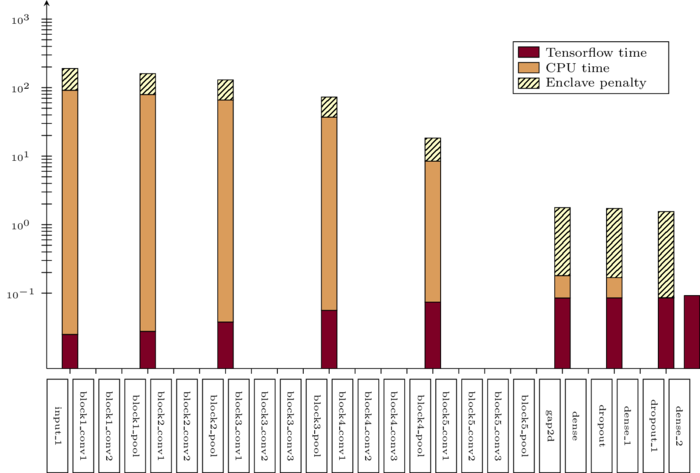
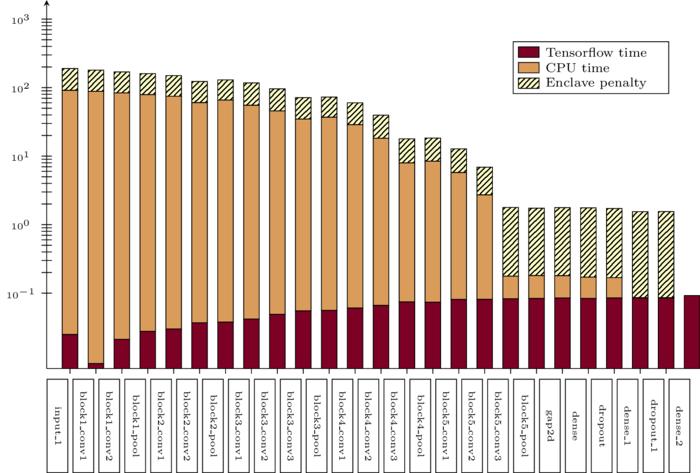
Added all splits to graph

diff --git a/enclave_model.py b/enclave_model.py
@@ -98,7 +98,7 @@ class Enclave(Sequential):
                     "const float *%s = (const float*) &_binary_%s_bin_start;\n" % (bias_name, bias_name))
                 
             elif type(l) in [layers.Dropout, layers.GlobalAveragePooling1D, layers.GlobalAveragePooling2D,
-                             layers.MaxPooling1D,layers.MaxPooling2D]:
+                             layers.MaxPooling1D,layers.MaxPooling2D, layers.Flatten]:
                 # these layers are either not used during inference or have no parameters
                 continue
             else:
@@ -262,7 +262,7 @@ class Enclave(Sequential):
             new_size = np.prod(layer.output_shape[1:])
             s = max_pooling_2d_template % (inputs, h, w, c, pool_size, tmp_buffer_template % tmp_index)
 
-        elif type(layer) in [layers.Dropout]:
+        elif type(layer) in [layers.Dropout, layers.Flatten]:
             # these layers are inactive during inference, so they can be skipped
             s = "//Layer {} skipped\n".format(layer.name)
             return s, False

diff --git a/tex/graphic_gpu.tex b/tex/graphic_gpu.tex
@@ -19,14 +19,31 @@
   
   \mitnetsummary{-0.2}
 
-  \mitgpusplita
-  \mitgpusplitd
-  \mitgpusplitf
-  \mitgpusplitba
-  \mitgpusplitbe
-  \mitgpusplitbi
-  \mitgpusplitcb
-  \mitgpusplitce
+  \mitcpusplita
+  \mitcpusplitb
+  \mitcpusplitc
+  \mitcpusplitd
+  \mitcpusplite
+  \mitcpusplitf
+  \mitcpusplitg
+  \mitcpusplith
+  \mitcpuspliti
+  \mitcpusplitj
+  \mitcpusplitba
+  \mitcpusplitbb
+  \mitcpusplitbc
+  \mitcpusplitbd
+  \mitcpusplitbe
+  \mitcpusplitbf
+  \mitcpusplitbg
+  \mitcpusplitbh
+  \mitcpusplitbi
+  \mitcpusplitbj
+  \mitcpusplitca
+  \mitcpusplitcb
+  \mitcpusplitcc
+  \mitcpusplitcd
+  \mitcpusplitce
 
   \legend{9cm}{6.3cm}
 

diff --git a/tex/graphic_cpu.tex b/tex/graphic_cpu.tex
@@ -20,12 +20,28 @@
 
   \mitcpusplita
   \mitcpusplitb
+  \mitcpusplitc
   \mitcpusplitd
+  \mitcpusplite
   \mitcpusplitf
+  \mitcpusplitg
+  \mitcpusplith
+  \mitcpuspliti
+  \mitcpusplitj
   \mitcpusplitba
+  \mitcpusplitbb
+  \mitcpusplitbc
+  \mitcpusplitbd
   \mitcpusplitbe
+  \mitcpusplitbf
+  \mitcpusplitbg
+  \mitcpusplitbh
   \mitcpusplitbi
+  \mitcpusplitbj
+  \mitcpusplitca
   \mitcpusplitcb
+  \mitcpusplitcc
+  \mitcpusplitcd
   \mitcpusplitce
 
   \legend{9cm}{6.3cm}

diff --git a/mnist_compare_outputs.py b/mnist_compare_outputs.py
@@ -46,7 +46,7 @@ pymatutil.initialize()
 enclave_predictions = enclave_model.predict(test_images)
 pymatutil.teardown()
 enclave_after = time.time()
-enclave_labels = np.argmax(enclave_predictions, axis=1)
+enclave_labels = np.argmax(enclave_predictions, axis=1) 
 enclave_time = enclave_after - enclave_before
 print("Prediction took {:05f} seconds".format(enclave_time))
 
